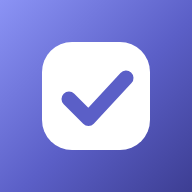
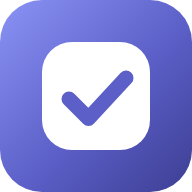
App-iconen met afgeronde hoeken (#1)
* App-iconen met afgeronde hoeken (192/512 transparant afgerond)

Claude-Session: https://claude.ai/code/session_017JsKHnx9ShG78S1vFGbi6N

* Manifest-iconversie ook in build.py

Claude-Session: https://claude.ai/code/session_017JsKHnx9ShG78S1vFGbi6N

---------

diff --git a/mkicons.js b/mkicons.js
@@ -1,3 +1,5 @@
+// iconen uit icon.svg. 180 (apple-touch-icon): vierkant, iOS rondt zelf af (transparante hoeken worden daar zwart).
+// 192/512 (manifest, o.a. Windows/Android): afgeronde hoeken met transparante achtergrond.
 const {chromium}=require('playwright');(async()=>{const b=await chromium.launch();const p=await b.newPage();const svg=require('fs').readFileSync(process.argv[2]+'/icon.svg','utf8');
-for(const s of [180,192,512]){await p.setViewportSize({width:s,height:s});await p.setContent(`<html><body style="margin:0;background:#5b5fc7">${svg.replace('<svg ','<svg width="'+s+'" height="'+s+'" ').replace('rx="14"','rx="0"')}</body></html>`);await p.screenshot({path:process.argv[2]+'/icon-'+s+'.png'});}
+for(const s of [180,192,512]){const vierkant=s===180;await p.setViewportSize({width:s,height:s});await p.setContent(`<html><body style="margin:0;background:${vierkant?'#5b5fc7':'transparent'}">${svg.replace('<svg ','<svg style="display:block" width="'+s+'" height="'+s+'" ').replace('rx="14"',vierkant?'rx="0"':'rx="14"')}</body></html>`);await p.screenshot({path:process.argv[2]+'/icon-'+s+'.png',omitBackground:!vierkant});}
 await b.close();})();

diff --git a/build.py b/build.py
@@ -20,5 +20,5 @@ for k, v in parts.items():
     h = h.replace(k, v)
 (out/'index.html').write_text(h)
 (out/'icon.svg').write_text((src/'logo.svg').read_text())  # logo: bron in src/logo.svg (ook als symbool i-logo in icons.svg)
-(out/'manifest.webmanifest').write_text('{"name":"To do","short_name":"To do","start_url":"./#taken","scope":"./","display":"standalone","background_color":"#fafaf9","theme_color":"#ffffff","icons":[{"src":"icon-192.png","sizes":"192x192","type":"image/png"},{"src":"icon-512.png","sizes":"512x512","type":"image/png"},{"src":"icon.svg","sizes":"any","type":"image/svg+xml"}]}\n')
+(out/'manifest.webmanifest').write_text('{"name":"To do","short_name":"To do","start_url":"./#taken","scope":"./","display":"standalone","background_color":"#fafaf9","theme_color":"#ffffff","icons":[{"src":"icon-192.png?v=2","sizes":"192x192","type":"image/png"},{"src":"icon-512.png?v=2","sizes":"512x512","type":"image/png"},{"src":"icon.svg","sizes":"any","type":"image/svg+xml"}]}\n')
 print('ok', len(h), '(database gekoppeld)' if SUPABASE_URL and SUPABASE_KEY else '(nog geen database: de app vraagt om URL en key)')
